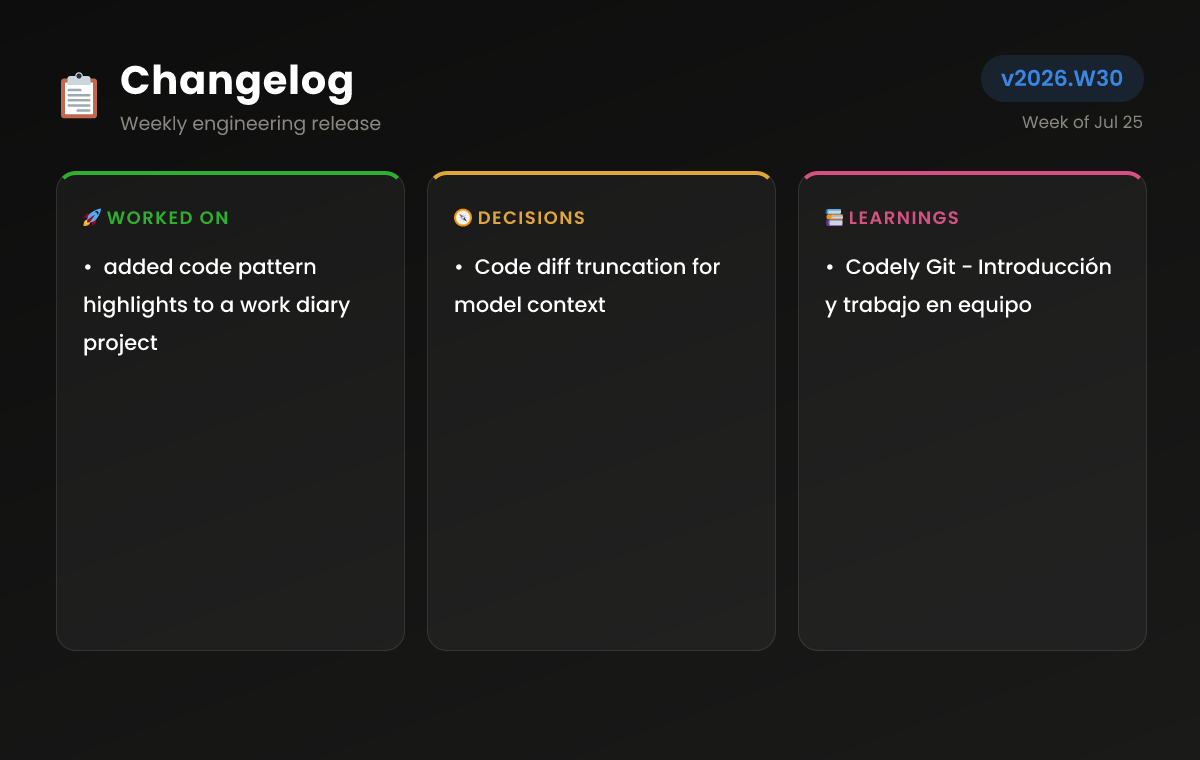
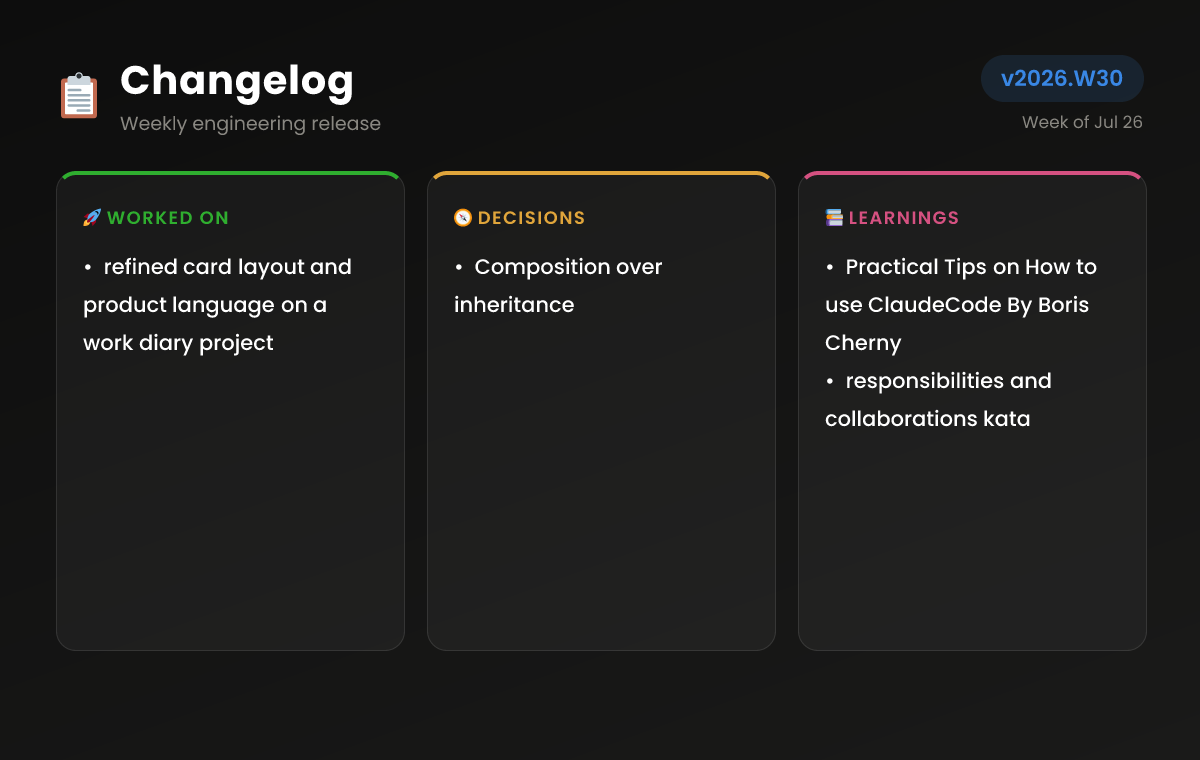
feat: cron hour changed and dashboard alternative to decision

diff --git a/docs/index.html b/docs/index.html
@@ -240,13 +240,13 @@
   <div class="page">
     <header class="page-header">
       <h1>Weekly Changelog</h1>
-      <span class="week-pill">Week of Jul 25</span>
+      <span class="week-pill">Week of Jul 26</span>
     </header>
     
     <section class="digest-hero accent-yellow">
       <p class="digest-eyebrow"><span class="ai-badge">AI</span>This week</p>
-      <h2 class="digest-headline">Weekly changelog now highlights code patterns and simplifies posts</h2>
-      <p class="digest-summary">A new digest feature surfaces design patterns from weekly diffs. LinkedIn post generation streamlined and code snippets added to the dashboard.</p>
+      <h2 class="digest-headline">Product-focused changelog with refined card layout</h2>
+      <p class="digest-summary">A work diary project received a visual overhaul and clearer product language. The week focused on improving user-facing presentation and summarizing technical decisions without engineering jargon.</p>
     </section>
     
     <section class="dashboard-section">
@@ -257,60 +257,34 @@
           <a class="entry-title" href="https://github.com/jormiquis/weekly-changelog" target="_blank" rel="noopener">weekly-changelog</a>
           <span class="repo-product">a work diary project</span>
         </header>
-        <p class="repo-evaluation"><span class="ai-badge">AI</span>The digest now automatically identifies and presents design patterns and architectural decisions from weekly code changes. A new LinkedIn post builder simplifies publication by focusing on raw facts and dashboard links. Syntax highlighting support was added to the dashboard for better code readability.</p>
+        <p class="repo-evaluation"><span class="ai-badge">AI</span>The card layout was restructured to prioritize product language over engineering metrics. A new visual style for repository cards was introduced, featuring full-width updates and clear product context. The underlying data model was simplified to focus on user-facing outcomes rather than technical activity.</p>
         <div class="product-changes">
           <span class="block-label">What changed in the product</span>
-          <ul class="changes"><li>code patterns surfaced in weekly digest</li><li>LinkedIn post generation simplified</li><li>syntax highlighting added to dashboard</li><li>code snippets included in digest</li></ul>
+          <ul class="changes"><li>introduced full-width repository update cards</li><li>added product context labels to each repository</li><li>removed engineering metrics from the card display</li><li>simplified the change description format</li></ul>
         </div>
         <div class="repo-highlights">
           <span class="block-label">Code highlights</span>
           <div class="highlight-grid">
         <article class="highlight-card">
           <header class="highlight-head">
-            <span class="highlight-title"><span class="ai-badge">AI</span>Code diff truncation for model context</span>
+            <span class="highlight-title"><span class="ai-badge">AI</span>Composition over inheritance</span>
           </header>
           <div class="highlight-body">
-            <pre class="code-panel"><code class="language-typescript">const MAX_PATCH_CHARS_PER_FILE = 1600
-const MAX_FILES = 14
-const MAX_DIFF_CHARS = 9000
-
-function buildCodeDiffs(activities: Activity[]): string {
-  const blocks: string[] = []
-  let fileCount = 0
-  let totalChars = 0
-
-  for (const activity of activities) {
-    const meta = activity.metaData
-    if (!isPushEvent(meta)) continue
-
-    const repo = repoShortName(meta.repo.name)
-
-    for (const file of meta.files ?? []) {
-      if (!file.patch || NOISE_PATH.test(file.filename)) continue
-      if (fileCount &gt;= MAX_FILES || totalChars &gt;= MAX_DIFF_CHARS) break
-
-      const patch = file.patch.length &gt; MAX_PATCH_CHARS_PER_FILE
-        ? `${file.patch.slice(0, MAX_PATCH_CHARS_PER_FILE)}\n… (truncated)`
-        : file.patch
-
-      const block = `# repo: ${repo}\n# file: ${file.filename}\n${patch}`
-      blocks.push(block)
-      fileCount++
-      totalChars += block.length
-    }
-  }
-
-  return blocks.join(&#39;\n\n&#39;)
+            <pre class="code-panel"><code class="language-typescript">interface CardData {
+  week: string
+  version: string
+  workedOn: string[]
+  decisions: string[]
+  learnings: string[]
 }</code></pre>
             <pre class="mermaid">flowchart TD
-  A[Raw Diff] --&gt; B[Filter Noise]
-  B --&gt; C[Truncate Files]
-  C --&gt; D[Respect Context Limit]
-  D --&gt; E[Compact Diff Block]</pre>
+  A[CardData] --&gt; B[workedOn]
+  A --&gt; C[decisions]
+  A --&gt; D[learnings]</pre>
           </div>
         </article></div>
         </div>
-        <a class="diff-link" href="https://github.com/jormiquis/weekly-changelog/compare/6d3f114538ac3e566b7e071236f82abbea728124...bb72dd3fc0e147931c7acb8755e1e6cbc8ec7d8b.diff" target="_blank" rel="noopener">View full diff &rarr;</a>
+        <a class="diff-link" href="https://github.com/jormiquis/weekly-changelog/compare/7180d29c818aa7af327999f36e51365f76b6cafa...77336975818622a187a48c387cde4267012ecbc6.diff" target="_blank" rel="noopener">View full diff &rarr;</a>
       </article></div>
     </section>
     
@@ -322,17 +296,41 @@ function buildCodeDiffs(activities: Activity[]): string {
       <div class="entry-grid">
       <article class="entry-card accent-magenta">
         <header class="entry-head">
+          <span class="entry-title"><span class="emoji">📝</span>Practical Tips on How to use ClaudeCode By Boris Cherny</span>
+        </header>
+        <p class="repo-evaluation"><span class="ai-badge">AI</span>A guide on effectively using ClaudeCode for development workflows and productivity.</p>
+        <div class="tags"><span class="tag">AI</span><span class="tag">Claude code</span><span class="tag">outside-in</span><span class="tag">specification-by-example</span></div>
+        <div class="sources"><span class="sources-label">Sources</span><a href="https://youtu.be/M8HuXu_bOco?si=-iNcyhQx0nTzn9JB" target="_blank" rel="noopener">https://youtu.be/M8HuXu_bOco?si=-iNcyhQx0nTzn9JB</a></div>
+      </article>
+      <article class="entry-card accent-magenta">
+        <header class="entry-head">
+          <span class="entry-title"><span class="emoji">📝</span>responsibilities and collaborations kata</span>
+        </header>
+        <p class="repo-evaluation"><span class="ai-badge">AI</span>An exercise focused on clarifying team roles and improving collaboration practices.</p>
+        <div class="tags"><span class="tag">modeling</span><span class="tag">kata</span></div>
+        <div class="sources"><span class="sources-label">Sources</span><a href="https://emmanuelvalverderamos.substack.com/p/kata-1-conference-scheduler?img=https%3A%2F%2Fsubstack-post-media.s3.amazonaws.com%2Fpublic%2Fimages%2F468b4f01-6638-4007-87cc-b69bf18cdf8b_3547x140.png&amp;open=false" target="_blank" rel="noopener">https://emmanuelvalverderamos.substack.com/p/kata-1-conference-scheduler?img=https%3A%2F%2Fsubstack-post-media.s3.amazonaws.com%2Fpublic%2Fimages%2F468b4f01-6638-4007-87cc-b69bf18cdf8b_3547x140.png&amp;open=false</a></div>
+      </article>
+      <article class="entry-card accent-magenta">
+        <header class="entry-head">
           <span class="entry-title"><span class="emoji">📝</span>Codely Git - Introducción y trabajo en equipo</span>
         </header>
-        <p class="repo-evaluation"><span class="ai-badge">AI</span>A note introducing Git basics and team collaboration workflows for onboarding purposes</p>
+        <p class="repo-evaluation"><span class="ai-badge">AI</span>A resource introducing Git workflows and team collaboration in software development.</p>
         <div class="tags"><span class="tag">courses</span><span class="tag">good-practices</span><span class="tag">git</span></div>
         <div class="sources"><span class="sources-label">Sources</span><a href="https://codely.com/" target="_blank" rel="noopener">https://codely.com/</a></div>
+      </article>
+      <article class="entry-card accent-magenta">
+        <header class="entry-head">
+          <span class="entry-title"><span class="emoji">📝</span>advanced git exercises</span>
+        </header>
+        <p class="repo-evaluation"><span class="ai-badge">AI</span>Challenging exercises designed to deepen understanding of Git and version control.</p>
+        <div class="tags"><span class="tag">git</span><span class="tag">good-practices</span><span class="tag">kata</span></div>
+        <div class="sources"><span class="sources-label">Sources</span><a href="https://github.com/jormiquis/advanced-git-kata" target="_blank" rel="noopener">https://github.com/jormiquis/advanced-git-kata</a><a href="https://git-scm.com/docs/git-add" target="_blank" rel="noopener">https://git-scm.com/docs/git-add</a></div>
       </article></div>
     </section>
     
   </div>
   <footer>
-    Generated Jul 25, 10:10 AM &middot; <a href="https://github.com/jormiquis/weekly-changelog">weekly-changelog</a>
+    Generated Jul 26, 10:47 AM &middot; <a href="https://github.com/jormiquis/weekly-changelog">weekly-changelog</a>
   </footer>
   <script src="https://cdn.jsdelivr.net/gh/highlightjs/cdn-release@11.9.0/build/highlight.min.js"></script>
   <script>window.hljs && document.querySelectorAll('.code-panel code').forEach(function (block) { window.hljs.highlightElement(block) });</script>

diff --git a/tests/infra/mistral/MistralSourceSynthesizer.test.ts b/tests/infra/mistral/MistralSourceSynthesizer.test.ts
@@ -14,7 +14,7 @@ describe('MistralSourceSynthesizer', () => {
     const fetchMock = vi.fn().mockResolvedValue({
       ok: true,
       json: async () => ({
-        choices: [{ message: { content: JSON.stringify({ headline: 'A productive week', summary: 'Steady progress across the codebase.', repos: [{ repo: 'weekly-changelog', product: 'a weekly changelog project', workedOnLine: 'added an AI digest on a weekly changelog project', summary: 'The changelog now turns the week into a product-oriented digest.', productChanges: ['AI-written weekly digest'], highlights: [{ title: 'Provider fallback chain', code: 'class Fallback {}', language: 'typescript', diagram: 'flowchart LR\n A --> B' }] }], notes: [] }) } }]
+        choices: [{ message: { content: JSON.stringify({ headline: 'A productive week', summary: 'Steady progress across the codebase.', repos: [{ repo: 'weekly-changelog', product: 'a weekly changelog project', workedOnLine: 'added an AI digest on a weekly changelog project', summary: 'The changelog now turns the week into a product-oriented digest.', productChanges: ['AI-written weekly digest'], highlights: [{ title: 'Provider fallback chain', alternative: 'a single hardcoded provider', code: 'class Fallback {}', language: 'typescript', diagram: 'flowchart LR\n A --> B' }] }], notes: [] }) } }]
       })
     });
     vi.stubGlobal('fetch', fetchMock);
@@ -22,7 +22,7 @@ describe('MistralSourceSynthesizer', () => {
     const synthesizer = new MistralSourceSynthesizer('mistral-key');
     const digest = await synthesizer.synthesize(activities, week);
 
-    expect(digest).toEqual({ headline: 'A productive week', summary: 'Steady progress across the codebase.', repos: [{ repo: 'weekly-changelog', product: 'a weekly changelog project', workedOnLine: 'added an AI digest on a weekly changelog project', summary: 'The changelog now turns the week into a product-oriented digest.', productChanges: ['AI-written weekly digest'], highlights: [{ title: 'Provider fallback chain', code: 'class Fallback {}', language: 'typescript', diagram: 'flowchart LR\n A --> B' }] }], notes: [] });
+    expect(digest).toEqual({ headline: 'A productive week', summary: 'Steady progress across the codebase.', repos: [{ repo: 'weekly-changelog', product: 'a weekly changelog project', workedOnLine: 'added an AI digest on a weekly changelog project', summary: 'The changelog now turns the week into a product-oriented digest.', productChanges: ['AI-written weekly digest'], highlights: [{ title: 'Provider fallback chain', alternative: 'a single hardcoded provider', code: 'class Fallback {}', language: 'typescript', diagram: 'flowchart LR\n A --> B' }] }], notes: [] });
 
     const [url, options] = fetchMock.mock.calls[0]!;
     expect(url).toBe('https://api.mistral.ai/v1/chat/completions');

diff --git a/tests/infra/groq/GroqSourceSynthesizer.test.ts b/tests/infra/groq/GroqSourceSynthesizer.test.ts
@@ -14,7 +14,7 @@ describe('GroqSourceSynthesizer', () => {
     const fetchMock = vi.fn().mockResolvedValue({
       ok: true,
       json: async () => ({
-        choices: [{ message: { content: JSON.stringify({ headline: 'A productive week', summary: 'Steady progress across the codebase.', repos: [{ repo: 'weekly-changelog', product: 'a weekly changelog project', workedOnLine: 'added an AI digest on a weekly changelog project', summary: 'The changelog now turns the week into a product-oriented digest.', productChanges: ['AI-written weekly digest'], highlights: [{ title: 'Provider fallback chain', code: 'class Fallback {}', language: 'typescript', diagram: 'flowchart LR\n A --> B' }] }], notes: [] }) } }]
+        choices: [{ message: { content: JSON.stringify({ headline: 'A productive week', summary: 'Steady progress across the codebase.', repos: [{ repo: 'weekly-changelog', product: 'a weekly changelog project', workedOnLine: 'added an AI digest on a weekly changelog project', summary: 'The changelog now turns the week into a product-oriented digest.', productChanges: ['AI-written weekly digest'], highlights: [{ title: 'Provider fallback chain', alternative: 'a single hardcoded provider', code: 'class Fallback {}', language: 'typescript', diagram: 'flowchart LR\n A --> B' }] }], notes: [] }) } }]
       })
     });
     vi.stubGlobal('fetch', fetchMock);
@@ -22,7 +22,7 @@ describe('GroqSourceSynthesizer', () => {
     const synthesizer = new GroqSourceSynthesizer('groq-key');
     const digest = await synthesizer.synthesize(activities, week);
 
-    expect(digest).toEqual({ headline: 'A productive week', summary: 'Steady progress across the codebase.', repos: [{ repo: 'weekly-changelog', product: 'a weekly changelog project', workedOnLine: 'added an AI digest on a weekly changelog project', summary: 'The changelog now turns the week into a product-oriented digest.', productChanges: ['AI-written weekly digest'], highlights: [{ title: 'Provider fallback chain', code: 'class Fallback {}', language: 'typescript', diagram: 'flowchart LR\n A --> B' }] }], notes: [] });
+    expect(digest).toEqual({ headline: 'A productive week', summary: 'Steady progress across the codebase.', repos: [{ repo: 'weekly-changelog', product: 'a weekly changelog project', workedOnLine: 'added an AI digest on a weekly changelog project', summary: 'The changelog now turns the week into a product-oriented digest.', productChanges: ['AI-written weekly digest'], highlights: [{ title: 'Provider fallback chain', alternative: 'a single hardcoded provider', code: 'class Fallback {}', language: 'typescript', diagram: 'flowchart LR\n A --> B' }] }], notes: [] });
 
     const [url, options] = fetchMock.mock.calls[0]!;
     expect(url).toBe('https://api.groq.com/openai/v1/chat/completions');

diff --git a/src/domain/buildDigestPrompt.ts b/src/domain/buildDigestPrompt.ts
@@ -111,7 +111,7 @@ export function buildDigestPrompt(activities: Activity[], week: string): string 
     codeDiffs.length > 0 ? codeDiffs : '(no code diffs available)',
     '',
     'Respond with ONLY strict JSON (no markdown fences, no commentary) matching exactly this shape:',
-    '{"headline": string, "summary": string, "repos": [{"repo": string, "product": string, "workedOnLine": string, "summary": string, "productChanges": [string], "highlights": [{"title": string, "code": string, "language": string, "diagram": string}]}], "notes": [{"title": string, "summary": string}]}',
+    '{"headline": string, "summary": string, "repos": [{"repo": string, "product": string, "workedOnLine": string, "summary": string, "productChanges": [string], "highlights": [{"title": string, "alternative": string, "code": string, "language": string, "diagram": string}]}], "notes": [{"title": string, "summary": string}]}',
     '',
     'Tone constraints, apply to every prose field:',
     '- Impersonal. Use nominal phrases or neutral/passive constructions.',
@@ -130,6 +130,7 @@ export function buildDigestPrompt(activities: Activity[], week: string): string 
     '  · "productChanges": 1 to 4 bullets, each a concrete user-facing change to the product this week (a capability added, changed, or fixed). Nominal phrase, max 14 words. Never mention where in the code it lives.',
     '  · "highlights": 0 to 3 entries, ONLY for genuinely worthwhile engineering in this repo\'s diffs. Skip trivial changes (renames, config, formatting). Empty array if nothing is worthwhile — do NOT invent.',
     '      "title": the design pattern or architectural decision, ENUNCIATED as a bare fact, e.g. "Composition over inheritance", "Provider fallback chain", "Refactor to aggregate pattern". Max 8 words. No rationale, no "because", no file/location.',
+    '      "alternative": the specific alternative that was DISCARDED in favour of this decision, as a bare noun phrase, e.g. "class inheritance", "a single hardcoded provider", "an anemic data model". Max 8 words. Must be a real, plausible option for THIS decision, not a restatement of the title.',
     '      "code": a SHORT (max ~14 lines), self-contained, attractive snippet distilled from that diff that best evidences the pattern. Real code from the diff, cleaned of diff +/- markers. Preserve newlines as \\n.',
     '      "language": the source language, lowercase (e.g. "typescript").',
     '      "diagram": a SIMPLE, valid mermaid diagram (flowchart, e.g. "flowchart LR\\n  A[Domain] --> B[Port] --> C[Adapter]") illustrating the pattern with 3-6 nodes. Use "" only if a diagram truly does not fit.',

diff --git a/src/ui/dashboard/renderDashboard.ts b/src/ui/dashboard/renderDashboard.ts
@@ -30,6 +30,7 @@ function highlightCard(highlight: DashboardHighlight): string {
           <header class="highlight-head">
             <span class="highlight-title"><span class="ai-badge">AI</span>${escapeHtml(highlight.title)}</span>
           </header>
+          <p class="decision-tradeoff"><span class="tradeoff-label">Chosen over</span> <span class="tradeoff-discarded">${escapeHtml(highlight.alternative)}</span></p>
           <div class="highlight-body">
             <pre class="code-panel"><code class="language-${escapeHtml(highlight.language)}">${escapeHtml(highlight.code)}</code></pre>
             ${highlight.diagram ? `<pre class="mermaid">${escapeHtml(highlight.diagram)}</pre>` : ''}
@@ -49,7 +50,7 @@ function repoSection(repos: DashboardData['repos']): string {
       : ''
     const highlights = repo.highlights.length > 0
       ? `<div class="repo-highlights">
-          <span class="block-label">Code highlights</span>
+          <span class="block-label">Decisions</span>
           <div class="highlight-grid">${repo.highlights.map(highlightCard).join('')}</div>
         </div>`
       : ''
@@ -335,6 +336,9 @@ export function renderDashboard(data: DashboardData): string {
     .highlight-head { display: flex; flex-wrap: wrap; align-items: center; justify-content: space-between; gap: 10px; }
     .highlight-title { display: flex; align-items: center; gap: 8px; font-size: 16px; font-weight: 600; color: var(--text-primary); }
     .highlight-repo { color: var(--accent-purple); background: var(--accent-purple-bg); }
+    .decision-tradeoff { display: flex; flex-wrap: wrap; align-items: baseline; gap: 8px; margin: -6px 0 0; font-size: 13px; }
+    .tradeoff-label { font-size: 11px; font-weight: 600; letter-spacing: 0.04em; text-transform: uppercase; color: var(--text-muted); }
+    .tradeoff-discarded { color: var(--text-muted); text-decoration: line-through; text-decoration-color: var(--accent-purple); text-decoration-thickness: 1.5px; }
     .highlight-body { display: grid; grid-template-columns: 1fr; gap: 14px; }
     @media (min-width: 720px) { .highlight-body:has(.mermaid) { grid-template-columns: minmax(0, 1.35fr) minmax(0, 1fr); align-items: start; } }
 

diff --git a/tests/ui/card/toCardData.test.ts b/tests/ui/card/toCardData.test.ts
@@ -17,7 +17,7 @@ const digest: SynthesizedDigest = {
       workedOnLine: 'added a new login flow on a web app',
       summary: 'The web app gained a new login flow and a dropdown fix.',
       productChanges: ['New login flow', 'Dropdown bug fixed'],
-      highlights: [{ title: 'Composition over inheritance', code: 'interface Sender {}', language: 'typescript' }],
+      highlights: [{ title: 'Composition over inheritance', alternative: 'class inheritance', code: 'interface Sender {}', language: 'typescript' }],
     },
     {
       repo: 'api',
@@ -25,7 +25,7 @@ const digest: SynthesizedDigest = {
       workedOnLine: 'exposed a users endpoint on a REST API',
       summary: 'The API now exposes a users endpoint.',
       productChanges: ['Users endpoint'],
-      highlights: [{ title: 'Provider fallback chain', code: 'class Fallback {}', language: 'typescript', diagram: 'flowchart LR\n A --> B' }],
+      highlights: [{ title: 'Provider fallback chain', alternative: 'a single hardcoded provider', code: 'class Fallback {}', language: 'typescript', diagram: 'flowchart LR\n A --> B' }],
     },
   ],
   notes: [
@@ -57,7 +57,7 @@ describe('buildCardData', () => {
       ...digest,
       repos: digest.repos.map(repo => ({
         ...repo,
-        highlights: [{ title: 'Composition over inheritance', code: 'x', language: 'ts' }],
+        highlights: [{ title: 'Composition over inheritance', alternative: 'class inheritance', code: 'x', language: 'ts' }],
       })),
     };
 
@@ -83,7 +83,7 @@ describe('buildCardData', () => {
         workedOnLine: `line ${name}`,
         summary: `summary ${name}`,
         productChanges: [`change ${name}`],
-        highlights: [{ title: `decision ${i}`, code: 'x', language: 'ts' }],
+        highlights: [{ title: `decision ${i}`, alternative: `alt ${i}`, code: 'x', language: 'ts' }],
       })),
     };
     const activities = [note('n1'), note('n2'), note('n3')];

diff --git a/tests/ui/dashboard/toDashboardData.test.ts b/tests/ui/dashboard/toDashboardData.test.ts
@@ -25,8 +25,8 @@ const digest: SynthesizedDigest = {
     summary: 'The changelog now turns the week into a product-oriented digest.',
     productChanges: ['AI-written weekly digest', 'Dashboard product updates'],
     highlights: [
-      { title: 'Provider fallback chain', code: 'class Fallback {}', language: 'typescript', diagram: 'flowchart LR\n A --> B' },
-      { title: 'Ports & adapters boundary', code: 'interface Sender {}', language: 'typescript' },
+      { title: 'Provider fallback chain', alternative: 'a single hardcoded provider', code: 'class Fallback {}', language: 'typescript', diagram: 'flowchart LR\n A --> B' },
+      { title: 'Ports & adapters boundary', alternative: 'leaking infrastructure into the domain', code: 'interface Sender {}', language: 'typescript' },
     ],
   }],
   notes: [{ title: 'Ports & adapters', summary: 'Boundaries between domain and infra.' }],
@@ -53,8 +53,8 @@ describe('buildDashboardData', () => {
     expect(repo.summary).toBe('The changelog now turns the week into a product-oriented digest.');
     expect(repo.productChanges).toEqual(['AI-written weekly digest', 'Dashboard product updates']);
     expect(repo.highlights).toEqual([
-      { title: 'Provider fallback chain', code: 'class Fallback {}', language: 'typescript', diagram: 'flowchart LR\n A --> B' },
-      { title: 'Ports & adapters boundary', code: 'interface Sender {}', language: 'typescript' },
+      { title: 'Provider fallback chain', alternative: 'a single hardcoded provider', code: 'class Fallback {}', language: 'typescript', diagram: 'flowchart LR\n A --> B' },
+      { title: 'Ports & adapters boundary', alternative: 'leaking infrastructure into the domain', code: 'interface Sender {}', language: 'typescript' },
     ]);
   });
 

diff --git a/src/domain/SynthesizedDigest.ts b/src/domain/SynthesizedDigest.ts
@@ -1,6 +1,11 @@
 export interface CodeHighlight {
   /** The design pattern / architectural decision, enunciated — never explained. */
   title: string
+  /**
+   * The alternative that was discarded in favour of this decision, enunciated as
+   * a bare noun phrase — e.g. "class inheritance", "a single hardcoded provider".
+   */
+  alternative: string
   /** A short, attractive, self-contained code snippet distilled from the diff. */
   code: string
   /** Language for syntax highlighting, e.g. "typescript". */
@@ -62,6 +67,7 @@ function isCodeHighlight(value: unknown): value is CodeHighlight {
   const candidate = value as Record<string, unknown>
 
   return isNonEmptyString(candidate.title)
+    && isNonEmptyString(candidate.alternative)
     && isNonEmptyString(candidate.code)
     && isNonEmptyString(candidate.language)
     && (candidate.diagram === undefined || typeof candidate.diagram === 'string')

diff --git a/src/ui/dashboard/toDashboardData.ts b/src/ui/dashboard/toDashboardData.ts
@@ -62,6 +62,7 @@ export function buildDashboardData(activities: Activity[], options: BuildDashboa
         productChanges: repoDigest?.productChanges ?? [],
         highlights: (repoDigest?.highlights ?? []).map(highlight => ({
           title: highlight.title,
+          alternative: highlight.alternative,
           code: highlight.code,
           language: highlight.language,
           ...(highlight.diagram && highlight.diagram.trim().length > 0 ? { diagram: highlight.diagram } : {})

diff --git a/src/ui/dashboard/DashboardData.ts b/src/ui/dashboard/DashboardData.ts
@@ -1,6 +1,8 @@
 export interface DashboardHighlight {
   /** The design pattern / architectural decision, enunciated. */
   title: string
+  /** The alternative discarded in favour of this decision. */
+  alternative: string
   /** Attractive, self-contained code snippet. */
   code: string
   /** Language for syntax highlighting, e.g. "typescript". */

diff --git a/README.md b/README.md
@@ -101,7 +101,7 @@ sequenceDiagram
     participant TG as Telegram
     participant LI as LinkedIn
 
-    Cron->>Main: npm run weekly (Wed 08:00 UTC)
+    Cron->>Main: npm run weekly (Wed 07:25 UTC)
     par Fetch activity (last 7 days)
         Main->>GH: public push & create events
         GH-->>Main: commits, new repos
@@ -224,7 +224,7 @@ npm run dev        # tsx src/main.ts
 ### 4. Automated weekly run (GitHub Actions)
 
 The workflow `.github/workflows/generate-weekly-post.yml` runs every **Wednesday at
-08:00 UTC** (and on manual `workflow_dispatch`). Configure in your repo:
+07:25 UTC**. Configure in your repo:
 
 - **Secrets:** `GH_TOKEN`, `NOTION_API_KEY`, `MISTRAL_API_KEY`, `GROQ_API_KEY`, `TELEGRAM_BOT_TOKEN`, `LINKEDIN_ACCESS_TOKEN`
 - **Variables:** `USERNAME`, `NOTION_DATABASE_ID`, `TELEGRAM_CHAT_ID`, `LINKEDIN_AUTHOR_URN`
